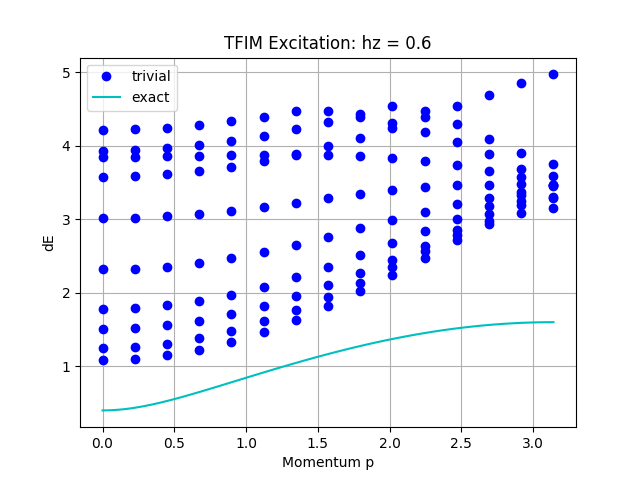
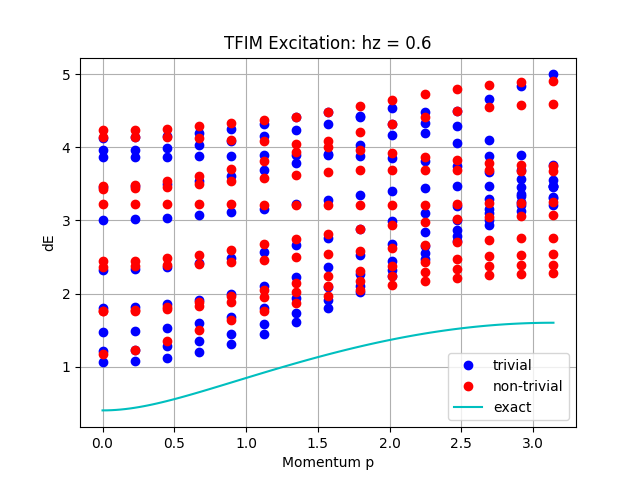
add domain-wall excitation and some data

diff --git a/vumps/vumps_np.py b/vumps/vumps_np.py
@@ -409,13 +409,13 @@ def vumps_2sites(h, A, eta=1e-7):
         delta = linalg.norm(Ac-Al_C)
         energy_error = abs((e - Exact)/Exact)
 
-        if count%5 == 0:
+        if count%20 == 0:
             print(50*'-'+'steps',count, 50*'-')
             print('energy = ', e)
-            print('delta = ', delta)
-            print('Eac = ', E_Ac)
-            print('Ec = ',E_C)
-            print('Eac/Ec', E_Ac/E_C)
+            # print('delta = ', delta)
+            # print('Eac = ', E_Ac)
+            # print('Ec = ',E_C)
+            # print('Eac/Ec', E_Ac/E_C)
         count += 1
     print(50*'-'+' final '+50*'-')
     print('energy = ', e)
@@ -546,7 +546,7 @@ def vumps_mpo(W,A,eta = 1e-8):
     #                    [[3,2,1],[1,7,4],[2,5,7,8],[3,8,6],[6,5,4]])
     # print('test_energy = ', test_energy)
     # exit()
-    return Ac, C, A_L, A_R, L_W, R_W
+    return e, Ac, C, A_L, A_R, L_W, R_W
 '''
 ########################################################################################################################
 Excitation Part
@@ -647,6 +647,8 @@ def quasiparticle_correct(W, p, A_L, A_R, L_W, R_W):
     T_RL = get_T_RL_or_T_LR(A_R, W, A_L)
     W_r = W.transpose([1, 0, 2, 3])
     T_LR = get_T_RL_or_T_LR(A_L,W_r,A_R)
+    # T_RL *= np.exp(-1j * p)
+    # T_LR *= np.exp(1j * p)
     r_L, l_L = Tw_to_rl(T_RL)
     l_R, r_R = Tw_to_rl(T_LR)
     T_RL *= np.exp(-1j * p)
@@ -716,6 +718,64 @@ def quasiparticle_typo(W, p, Ac, A_L, A_R, L_W, R_W):
     # omega, X = eigsh(LinearOperator((D ** 2, D ** 2), matvec=map_effective_H), k=10, which='SA', tol=1e-4)
     # print(omega)
     return omega, X
+
+def domain_sum_right_left(T_R2L1,x):
+    D, d_w, _ = x.shape
+    def map_inv_L(y):
+        y = y.reshape(D,d_w,D)
+        term1 = y
+        term2 = ncon([T_R2L1, y],
+                     [[-1,-2,-3,1,2,3],[1,2,3]])
+        y_out = term1 - term2
+        return y_out.reshape(-1)
+    y, info = bicgstab(LinearOperator((D ** 2 * d_w, D ** 2 * d_w), matvec=map_inv_L), x.reshape(-1),
+                       x0=x.reshape(-1))
+    if info != 0:
+        print('bicgstab did not converge!')
+        exit()
+    y = y.reshape(D,d_w,D)
+    return y
+
+def quasiparticle_domain(W, p, A_L1, A_R2, L_W, R_W):
+    D, d, _ = A_L1.shape
+    A_tmp = A_L1.reshape(D * d, D).T
+    V_L = linalg.null_space(A_tmp)
+    V_L = V_L.reshape(D, d, D * (d - 1))
+    T_R2L1 = get_T_RL_or_T_LR(A_R2, W, A_L1)
+    lval, l = eigs(T_R2L1.reshape(D**2*d_w,D**2*d_w),k=1, which='LM')
+    # print(linalg.norm)
+    # B = 0
+    A_R2*= np.conj(lval)/linalg.norm(lval)
+    T_R2L1 = get_T_RL_or_T_LR(A_R2, W, A_L1)
+    T_R2L1 *= np.exp(-1j*p)
+    W_r = W.transpose([1, 0, 2, 3])
+    T_L1R2 = get_T_RL_or_T_LR(A_L1, W_r, A_R2)
+    T_L1R2 *= np.exp(1j*p)
+    # print('solving eigsh')
+    def map_effective_H(X):
+        # print('doing map_H')
+        X = X.reshape(D*(d-1),D)
+        B = ncon([V_L,X],
+                 [[-1,-2,1],[1,-3]])
+        LBWA_L1 = combine_LBWA_L(L_W, B, W, A_L1)
+        RBWA_R2 = combine_RBWA_R(R_W, B, W, A_R2)
+        L_B = domain_sum_right_left(T_R2L1, LBWA_L1)
+        R_B = domain_sum_right_left(T_L1R2, RBWA_R2)
+        term1 = np.exp(-1j*p)*ncon([L_B,A_R2,W,R_W],
+                                    [[-1,1,2],[4,5,2],[1,3,5,-2],[-3,3,4]])
+        term2 = np.exp(1j*p)*ncon([L_W, A_L1, W, R_B],
+                                  [[-1,1,2],[2,5,4],[1,3,5,-2],[-3,3,4]])
+        term3 = ncon([L_W,B,W,R_W],
+                     [[-1,1,2],[2,5,4],[1,3,5,-2],[-3,3,4]])
+        Teff_B = term1+term2+term3
+        Teff_X = ncon([Teff_B, np.conj(V_L)],
+                      [[1,2,-2],[1,2,-1]])
+        return Teff_X.reshape(-1)
+    omega, X = eigsh(LinearOperator((D ** 2 * (d - 1), D ** 2 * (d - 1)), matvec=map_effective_H), k=10, which='SA',
+                     tol=1e-6)
+    # omega, X = eigs(LinearOperator((D ** 2 * (d - 1), D ** 2 * (d - 1)), matvec=map_effective_H), k=10, which='SR',
+    #                 tol=1e-6)
+    return omega
 '''
 ########################################################################################################################
 Main Program
@@ -726,7 +786,7 @@ if __name__ == '__main__':
     D = 8;
     d = 2
     model = 'TFIM'
-    hz_field = 1.0
+    hz_field = 1.4
     print('We are solving ' + model + ' model!')
     print('D = ', D)
     A = np.random.rand(D, d, D)
@@ -779,7 +839,7 @@ if __name__ == '__main__':
         ## Ref: "Study of the ground state of the one-dimensionalHeisenberg spin-1 chain 2"; Author: K.R. de Ruiter
         # delta        0.        0.25      0.50      0.75      1.
         # E_infty/LJ  -0.318310 -0.345180 -0.375000 -0.407659 -0.443147
-        delta = 1.0
+        delta = 4.0
         E_XXZ = {0.:-0.318310, 0.25: -0.345180, -0.50:-0.375000, 0.75:-0.407659, 1.:  -0.443147}
         print('delta = ', delta)
         hloc = np.real(np.kron(sX, sX) +np.kron(sY,sY) +delta*np.kron(sZ,sZ)).reshape(2, 2, 2, 2)
@@ -795,38 +855,44 @@ if __name__ == '__main__':
 
     # vumps_2sites(hloc, A, eta=1e-7)
     # exit()
-    Ac, C, A_L, A_R, L_W, R_W = vumps_mpo(W,A, eta=1e-6)
+    e_cal, Ac, C, A_L, A_R, L_W, R_W = vumps_mpo(W,A, eta=1e-8)
     # exit()
-    # p = np.pi*9.9/10
+    A_L1 = A_L
+    A_R2 = ncon([A_R, sZ],
+                [[-1, 1, -3], [1, -2]])
+
+
+
+    # p = np.pi * 5 / 10
     # p = 0.0
-    # omega, X = quasiparticle_correct(W, p, Ac, A_L, A_R, L_W, R_W)
+    # omega, X = quasiparticle_correct(W, p, A_L, A_R, L_W, R_W)
     # print(omega)
-    # omega, X = quasiparticle_correct(W, p, Ac, A_L, A_R, L_W, R_W)
-    # print(omega)
-    # omega, X = quasiparticle_correct(W, p, Ac, A_L, A_R, L_W, R_W)
-    # print(omega)
-    # exit()
-    p_xaxis = []
-    # p_xaxis = np.linspace(np.pi * 9.8 / 10, 0, num=10)
-    omega_yaxis = []
-    num_of_p = 5
+    p_xaxis_ = []
+    omega_triv = []
+    omega_nontriv = []
+    num_of_p = 15
     for p in np.linspace(0, np.pi*10/10, num_of_p):
         print('p = ', p)
         omega, X = quasiparticle_correct(W,p, A_L, A_R, L_W, R_W)
-        omega_yaxis.append(omega.real-Exact)
+        omega_triv.append(omega.real - e_cal.real)
         # omega_yaxis.append(omega.real)
-        print(omega-Exact)
-        p_xaxis.append([p] * 10)
+        print('omega-e_cal (trivial)= ', omega-e_cal)
+        p_xaxis_.append([p] * 10)
+        omega = quasiparticle_domain(W,p, A_L1, A_R2, L_W, R_W)
+        omega_nontriv.append(omega.real - e_cal.real)
+        print('omega-e_cal (non-trivial)= ', omega - e_cal)
         print(omega)
-    # Teff_X = effective_H(X,p,Ac,A_L,A_R,L_W,R_W)
-    # print('smooth!')
     # elem_ex = lambda k: np.sqrt(1 + hz_field ** 2 - 2 * hz_field * np.cos(k))
-    omega_yaxis = np.array(omega_yaxis).ravel()
-    p_xaxis = np.array(p_xaxis).ravel()
-    plt.plot(p_xaxis, omega_yaxis, 'bo', label = 'trivial')
+    omega_triv = np.array(omega_triv).ravel()
+    p_xaxis_ = np.array(p_xaxis_).ravel()
+    plt.plot(p_xaxis_, omega_triv, 'bo', label ='trivial')
+    omega_nontriv = np.array(omega_nontriv).ravel()
+    p_xaxis_nontriv = np.array(p_xaxis_).ravel()
+    plt.plot(p_xaxis_nontriv, omega_nontriv, 'ro', label='non-trivial')
     p = np.linspace(0, np.pi, num=100)
     plt.plot(p, elem_ex(p), 'c-', label='exact')
     plt.title('TFIM Excitation:'+' hz = '+str(hz_field))
+    # plt.title('XXZ Excitation:' + ' delta = ' + str(delta))
     plt.xlabel('Momentum p')
     plt.ylabel('dE')
     plt.grid()
